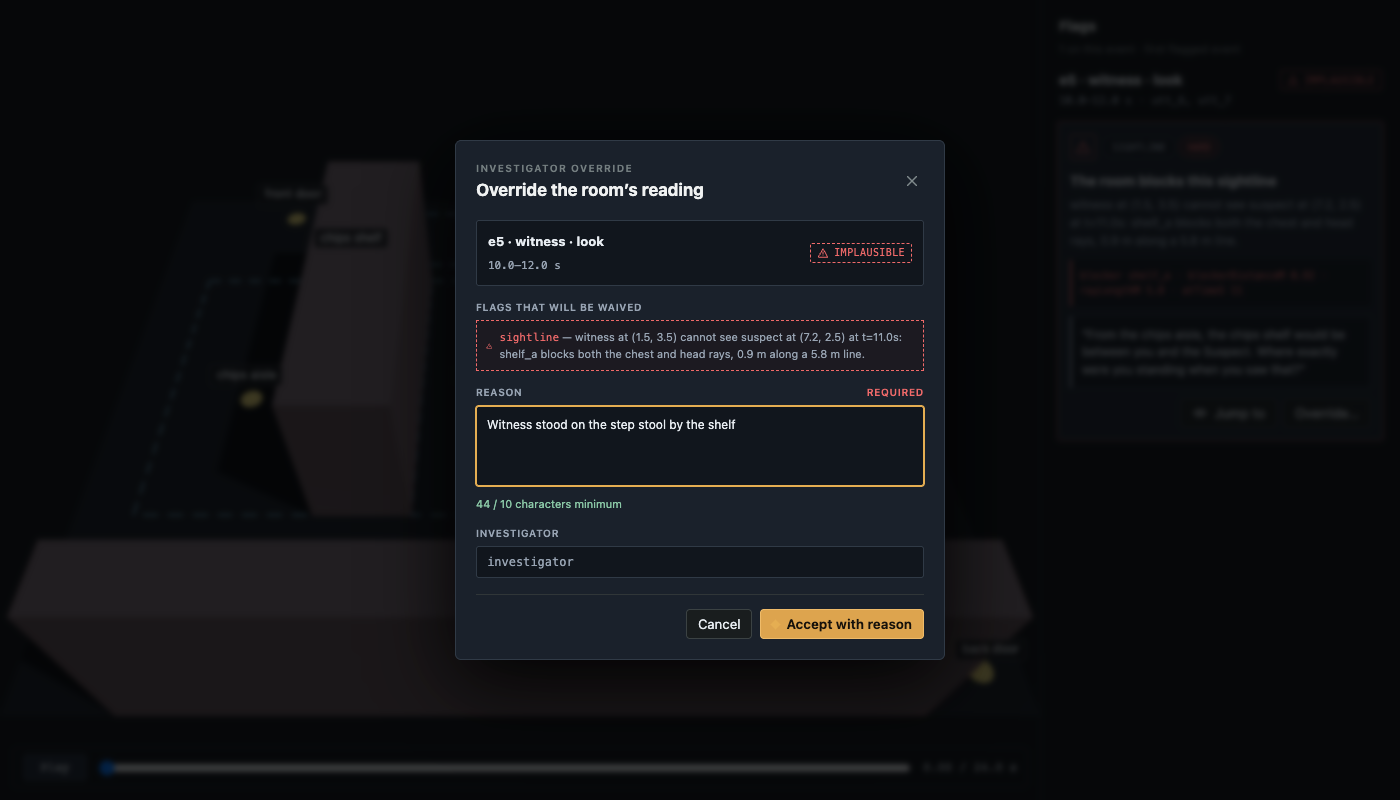
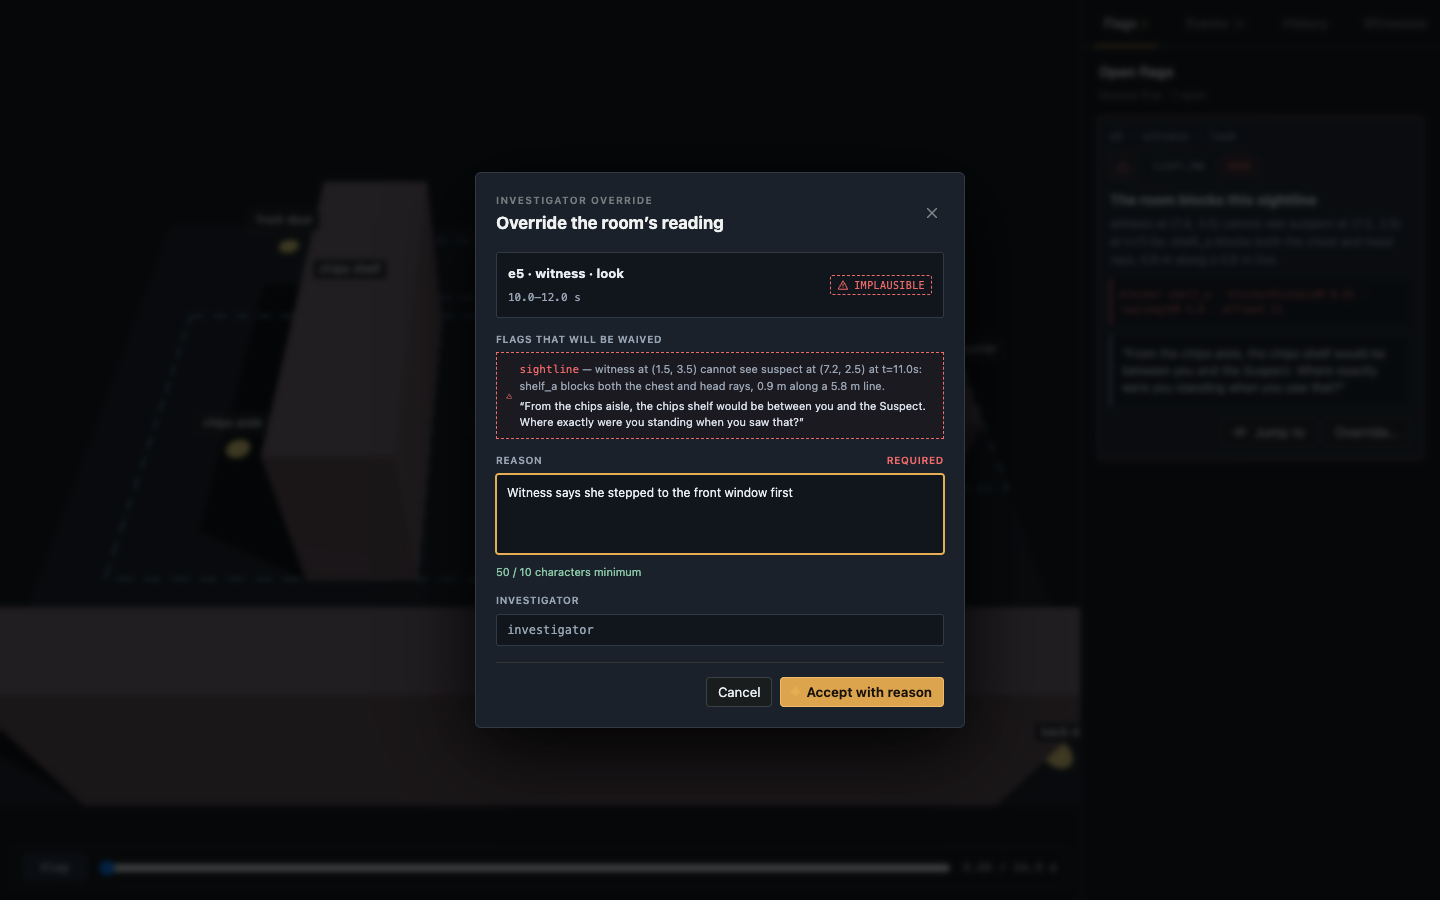
ui: PR #12 review fixes (gate-owned status, override via applyPatches, dialog a11y, suggested questions)
- The panel no longer decides "overridden": status always comes from useGraph(); a confirmed override the gate has not applied shows "Override pending: <reason>" next to the gate's status (overridePending.test.ts covers e5 staying implausible with the note)
- The dialog calls useGraphActions().applyPatches([{ op: "override", id, reason, by }]) and shows any thrown message in the dialog; History reads the override from the resolved event
- Dialog: Escape closes, Tab and Shift+Tab are trapped, role="dialog" with aria-modal and aria-labelledby, focus returns to the opener; each waived flag shows its suggestedQuestion
- Merged origin/main for useGraphActions and the playheadClock rename

diff --git a/apps/web/src/ui/OverrideDialog.tsx b/apps/web/src/ui/OverrideDialog.tsx
@@ -1,5 +1,5 @@
 import type { Override } from "@rashomon/schema";
-import { useState } from "react";
+import { useId, useState, type KeyboardEvent } from "react";
 import type { ResolvedEvent, Status } from "../scene";
 import { Icon } from "./Icon";
 import { buildOverride, canConfirm, MIN_REASON_LENGTH, reasonLength } from "./overrideReason";
@@ -13,28 +13,67 @@ export type OverrideDialogProps = {
   onClose: () => void;
 };
 
+const FOCUSABLE = 'button:not([disabled]), textarea, input, [href], [tabindex]:not([tabindex="-1"])';
+
+function trapTab(e: KeyboardEvent<HTMLElement>) {
+  const items = [...e.currentTarget.querySelectorAll<HTMLElement>(FOCUSABLE)];
+  const first = items[0];
+  const last = items[items.length - 1];
+  if (!first || !last) return;
+  if (e.shiftKey && document.activeElement === first) {
+    e.preventDefault();
+    last.focus();
+  } else if (!e.shiftKey && document.activeElement === last) {
+    e.preventDefault();
+    first.focus();
+  }
+}
+
 export function OverrideDialog({ event, status, by, onConfirm, onClose }: OverrideDialogProps) {
   const [reason, setReason] = useState("");
+  const [error, setError] = useState("");
+  const titleId = useId();
+  const [opener] = useState(() => (document.activeElement instanceof HTMLElement ? document.activeElement : null));
   const valid = canConfirm(reason);
 
+  const close = () => {
+    onClose();
+    opener?.focus();
+  };
+
   return (
-    <div className="modal-backdrop" onMouseDown={onClose}>
+    <div className="modal-backdrop" onMouseDown={close}>
       <form
         role="dialog"
-        aria-label={`Override ${event.id}`}
+        aria-modal="true"
+        aria-labelledby={titleId}
         className="modal"
         onMouseDown={(e) => e.stopPropagation()}
+        onKeyDown={(e) => {
+          if (e.key === "Escape") {
+            e.preventDefault();
+            close();
+          } else if (e.key === "Tab") {
+            trapTab(e);
+          }
+        }}
         onSubmit={(e) => {
           e.preventDefault();
-          if (valid) onConfirm(buildOverride(by, reason, event.flags.map((flag) => flag.id), Date.now()));
+          if (!valid) return;
+          try {
+            onConfirm(buildOverride(by, reason, event.flags.map((flag) => flag.id), Date.now()));
+            opener?.focus();
+          } catch (err) {
+            setError(err instanceof Error ? err.message : String(err));
+          }
         }}
       >
         <div className="modal-header">
           <div>
             <span className="eyebrow">Investigator override</span>
-            <h2>Override the room’s reading</h2>
+            <h2 id={titleId}>Override the room’s reading</h2>
           </div>
-          <button type="button" className="close" onClick={onClose} aria-label="Close">
+          <button type="button" className="close" onClick={close} aria-label="Close">
             <Icon name="x" />
           </button>
         </div>
@@ -56,6 +95,7 @@ export function OverrideDialog({ event, status, by, onConfirm, onClose }: Overri
               <Icon name="warning" size={12} />
               <p>
                 <b className="mono">{words(flag.check)}</b> — {flag.detail}
+                <q className="waived-question">{flag.suggestedQuestion}</q>
               </p>
             </div>
           ))}
@@ -68,7 +108,10 @@ export function OverrideDialog({ event, status, by, onConfirm, onClose }: Overri
           <textarea
             autoFocus
             value={reason}
-            onChange={(e) => setReason(e.currentTarget.value)}
+            onChange={(e) => {
+              setReason(e.currentTarget.value);
+              setError("");
+            }}
             placeholder="Why the room’s reading should be overridden here, in one sentence"
           />
           <small className={valid ? "ok" : undefined}>
@@ -81,8 +124,14 @@ export function OverrideDialog({ event, status, by, onConfirm, onClose }: Overri
           <input value={by} readOnly />
         </label>
 
+        {error && (
+          <p className="dialog-error" role="alert">
+            {error}
+          </p>
+        )}
+
         <div className="modal-actions">
-          <button type="button" className="button" onClick={onClose}>
+          <button type="button" className="button" onClick={close}>
             Cancel
           </button>
           <button type="submit" className="button button--primary" disabled={!valid}>

diff --git a/apps/web/src/ui/RightPanel.tsx b/apps/web/src/ui/RightPanel.tsx
@@ -1,10 +1,11 @@
 import { useEffect, useState, type ComponentType, type CSSProperties } from "react";
-import { useGraph, useSelection, useTimeline, type ResolvedEvent, type Status } from "../scene";
+import { useGraph, useGraphActions, useSelection, useTimeline, type ResolvedEvent, type Status } from "../scene";
 import { EventsTab } from "./EventsTab";
 import { FlagsTab, openFlagCount } from "./FlagsTab";
 import { HistoryTab } from "./HistoryTab";
 import { OverrideDialog } from "./OverrideDialog";
-import type { Overrides, PanelContext } from "./shared";
+import { eventDisplay, type PendingOverrides } from "./overridePending";
+import type { PanelContext } from "./shared";
 import { WitnessesTab } from "./WitnessesTab";
 import "./rashomon-ui.css";
 
@@ -28,8 +29,9 @@ export function RightPanel({ by = "investigator" }: { by?: string }) {
   const { resolved, statuses } = useGraph();
   const { selectedEventId, select } = useSelection();
   const { setT, pause } = useTimeline();
+  const { applyPatches } = useGraphActions();
   const [activeTab, setActiveTab] = useState(TABS[0]!.id);
-  const [overrides, setOverrides] = useState<Overrides>({});
+  const [pending, setPending] = useState<PendingOverrides>({});
   const [dialogEventId, setDialogEventId] = useState<string | null>(null);
   const [toast, setToast] = useState("");
 
@@ -49,8 +51,7 @@ export function RightPanel({ by = "investigator" }: { by?: string }) {
     );
   }
 
-  const statusOf = (event: ResolvedEvent): Status =>
-    overrides[event.id] ? "overridden" : (statuses[event.id] ?? event.status);
+  const statusOf = (event: ResolvedEvent): Status => eventDisplay(event, statuses, pending).status;
 
   const jumpTo = (eventId: string) => {
     const event = resolved.events.find((e) => e.id === eventId);
@@ -62,8 +63,8 @@ export function RightPanel({ by = "investigator" }: { by?: string }) {
 
   const context: PanelContext = {
     graph: resolved,
-    overrides,
     statusOf,
+    pendingNoteOf: (event) => eventDisplay(event, statuses, pending).pendingNote,
     selectedEventId,
     jumpTo,
     openOverride: setDialogEventId,
@@ -98,10 +99,11 @@ export function RightPanel({ by = "investigator" }: { by?: string }) {
           by={by}
           onClose={() => setDialogEventId(null)}
           onConfirm={(override) => {
-            setOverrides((prev) => ({ ...prev, [dialogEvent.id]: override }));
+            applyPatches([{ op: "override", id: dialogEvent.id, reason: override.reason, by: override.by }]);
+            setPending((prev) => ({ ...prev, [dialogEvent.id]: override.reason }));
             setDialogEventId(null);
             select(dialogEvent.id);
-            setToast("Overridden. The badge stays on this event.");
+            setToast("Override sent with your reason.");
           }}
         />
       )}

diff --git a/apps/web/src/ui/FlagsTab.tsx b/apps/web/src/ui/FlagsTab.tsx
@@ -1,4 +1,4 @@
-import { FlagCard, type PanelContext } from "./shared";
+import { FlagCard, PendingNote, type PanelContext } from "./shared";
 
 export function openFlagCount({ graph, statusOf }: Pick<PanelContext, "graph" | "statusOf">): number {
   return graph.events
@@ -6,7 +6,7 @@ export function openFlagCount({ graph, statusOf }: Pick<PanelContext, "graph" | 
     .reduce((count, event) => count + event.flags.length, 0);
 }
 
-export function FlagsTab({ graph, statusOf, jumpTo, openOverride }: PanelContext) {
+export function FlagsTab({ graph, statusOf, pendingNoteOf, jumpTo, openOverride }: PanelContext) {
   const flagged = graph.events
     .filter((event) => event.flags.length > 0 && statusOf(event) !== "overridden")
     .sort((a, b) => b.tStart - a.tStart);
@@ -29,14 +29,16 @@ export function FlagsTab({ graph, statusOf, jumpTo, openOverride }: PanelContext
         <div className="flag-list">
           {flagged.flatMap((event) =>
             event.flags.map((flag) => (
-              <FlagCard
-                key={flag.id}
-                flag={flag}
-                eventLabel={`${event.id} · ${event.actor} · ${event.action}`}
-                waived={false}
-                onJump={() => jumpTo(event.id)}
-                onOverride={() => openOverride(event.id)}
-              />
+              <div key={flag.id}>
+                <FlagCard
+                  flag={flag}
+                  eventLabel={`${event.id} · ${event.actor} · ${event.action}`}
+                  waived={false}
+                  onJump={() => jumpTo(event.id)}
+                  onOverride={() => openOverride(event.id)}
+                />
+                <PendingNote note={pendingNoteOf(event)} />
+              </div>
             )),
           )}
         </div>

diff --git a/apps/web/src/ui/HistoryTab.tsx b/apps/web/src/ui/HistoryTab.tsx
@@ -3,14 +3,15 @@ import {
   eventTime,
   NotConnected,
   OverrideLog,
+  PendingNote,
   StatusToken,
   words,
   type PanelContext,
 } from "./shared";
 
-export function HistoryTab({ graph, overrides, statusOf, selectedEventId }: PanelContext) {
+export function HistoryTab({ graph, statusOf, pendingNoteOf, selectedEventId }: PanelContext) {
   const event = graph.events.find((e) => e.id === selectedEventId) ?? null;
-  const overridden = graph.events.filter((e) => overrides[e.id]);
+  const overridden = graph.events.filter((e) => e.override);
 
   return (
     <>
@@ -45,7 +46,8 @@ export function HistoryTab({ graph, overrides, statusOf, selectedEventId }: Pane
               ))}
             </div>
           </article>
-          {overrides[event.id] && <OverrideLog override={overrides[event.id]!} />}
+          <PendingNote note={pendingNoteOf(event)} />
+          {event.override && <OverrideLog override={event.override} />}
         </div>
       )}
 
@@ -65,7 +67,7 @@ export function HistoryTab({ graph, overrides, statusOf, selectedEventId }: Pane
             <span className="flag-event mono" style={{ marginTop: 10 }}>
               {e.id} · {e.actor} · {words(e.action)}
             </span>
-            <OverrideLog override={overrides[e.id]!} />
+            <OverrideLog override={e.override!} />
           </div>
         ))
       )}

diff --git a/apps/web/src/ui/overridePending.test.ts b/apps/web/src/ui/overridePending.test.ts
@@ -1,0 +1,26 @@
+import { describe, expect, test } from "vitest";
+import { eventDisplay } from "./overridePending";
+
+const e5 = { id: "e5", status: "proposed" as const };
+
+describe("eventDisplay", () => {
+  test("a confirmed override the gate has not applied keeps e5 implausible, with the pending note", () => {
+    const shown = eventDisplay(e5, { e5: "implausible" }, { e5: "Witness corrected position on re-interview" });
+    expect(shown.status).toBe("implausible");
+    expect(shown.pendingNote).toBe("Override pending: Witness corrected position on re-interview");
+  });
+
+  test("once the gate returns overridden, the pending note goes away", () => {
+    const shown = eventDisplay(e5, { e5: "overridden" }, { e5: "Witness corrected position" });
+    expect(shown).toEqual({ status: "overridden", pendingNote: null });
+  });
+
+  test("an event that already carries the override shows no pending note", () => {
+    const withOverride = { ...e5, override: { by: "investigator", reason: "Witness corrected", at: 0, flagIds: [] } };
+    expect(eventDisplay(withOverride, { e5: "implausible" }, { e5: "Witness corrected" }).pendingNote).toBeNull();
+  });
+
+  test("without a gate status the resolved status is shown and nothing is pending", () => {
+    expect(eventDisplay(e5, {}, {})).toEqual({ status: "proposed", pendingNote: null });
+  });
+});

diff --git a/apps/web/src/ui/EventsTab.tsx b/apps/web/src/ui/EventsTab.tsx
@@ -1,7 +1,7 @@
 import { Icon } from "./Icon";
-import { actorLabel, eventDetail, eventTime, StatusToken, words, type PanelContext } from "./shared";
+import { actorLabel, eventDetail, eventTime, PendingNote, StatusToken, words, type PanelContext } from "./shared";
 
-export function EventsTab({ graph, statusOf, selectedEventId, jumpTo }: PanelContext) {
+export function EventsTab({ graph, statusOf, pendingNoteOf, selectedEventId, jumpTo }: PanelContext) {
   const events = [...graph.events].sort((a, b) => a.tStart - b.tStart);
 
   return (
@@ -41,6 +41,7 @@ export function EventsTab({ graph, statusOf, selectedEventId, jumpTo }: PanelCon
                   <span>The room rules this out as stated.</span>
                 </div>
               )}
+              <PendingNote note={pendingNoteOf(event)} />
               {status === "overridden" && (
                 <div className="event-override-note">
                   <span className="status-diamond" />

diff --git a/apps/web/src/ui/shared.tsx b/apps/web/src/ui/shared.tsx
@@ -20,12 +20,10 @@ const CHECK_TITLES: Record<Flag["check"], string> = {
   missing_time: "No time given for this",
 };
 
-export type Overrides = Record<string, Override>;
-
 export type PanelContext = {
   graph: ResolvedGraph;
-  overrides: Overrides;
   statusOf: (event: ResolvedEvent) => Status;
+  pendingNoteOf: (event: ResolvedEvent) => string | null;
   selectedEventId: string | null;
   jumpTo: (eventId: string) => void;
   openOverride: (eventId: string) => void;
@@ -134,6 +132,16 @@ export function OverrideLog({ override }: { override: Override }) {
         <span>Time</span>
         <b className="mono">{new Date(override.at).toLocaleTimeString()}</b>
       </p>
+    </div>
+  );
+}
+
+export function PendingNote({ note }: { note: string | null }) {
+  if (!note) return null;
+  return (
+    <div className="pending-note" role="status">
+      <span className="status-diamond" />
+      {note}
     </div>
   );
 }

diff --git a/apps/web/src/ui/rashomon-ui.css b/apps/web/src/ui/rashomon-ui.css
@@ -163,3 +163,6 @@
 .rui .witness-counts { display: flex; gap: 10px; margin-top: 7px; color: var(--text-secondary); font-size: 11px; }
 .rui .witness-counts b { color: var(--status-plausible); font-weight: 500; }
 .rui .witness-row > .button { height: 27px; padding: 0 8px; font-size: 11px; }
+.rui .waived-question { display: block; margin-top: 4px; color: var(--status-plausible); }
+.rui .dialog-error { margin: 14px 0 0; padding: 8px 10px; color: var(--status-implausible); border: 1px dashed var(--status-implausible); border-radius: 3px; background: color-mix(in srgb, var(--status-implausible) 6%, var(--surface)); font-size: 12px; line-height: 1.45; }
+.rui .pending-note { display: flex; align-items: center; gap: 7px; margin-top: 7px; padding: 6px 7px; color: var(--status-overridden); border: 1px dashed color-mix(in srgb, var(--status-overridden) 60%, transparent); border-radius: 3px; font-size: 11px; }

diff --git a/apps/web/src/ui/overridePending.ts b/apps/web/src/ui/overridePending.ts
@@ -1,0 +1,15 @@
+import type { ResolvedEvent, Status } from "../scene";
+
+export type PendingOverrides = Record<string, string>;
+
+export type EventDisplay = { status: Status; pendingNote: string | null };
+
+export function eventDisplay(
+  event: Pick<ResolvedEvent, "id" | "status" | "override">,
+  statuses: Record<string, Status | undefined>,
+  pending: PendingOverrides,
+): EventDisplay {
+  const status = statuses[event.id] ?? event.status;
+  const reason = status === "overridden" || event.override ? undefined : pending[event.id];
+  return { status, pendingNote: reason ? `Override pending: ${reason}` : null };
+}
